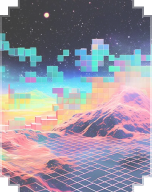
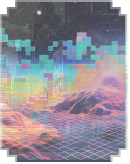
Fixes tracks and minor issues
Make width equal for all sections
Make tracks responsive
Remove faq cloud bg as it

diff --git a/src/components/Schedule/Schedule.jsx b/src/components/Schedule/Schedule.jsx
@@ -74,130 +74,132 @@ function Schedule() {
             <div
                 id="schedule"
                 name="schedule"
-                className="max-w-[1280px] xl:min-w-[1280px] mx-auto py-10 bg-[#040842] font-vt323 bg-[url('/src/assets/images/discord/stars.svg')]"
+                className="w-screen py-10 bg-[#040842] font-vt323 bg-[url('/src/assets/images/discord/stars.svg')]"
             >
-                <h1 className='mx-5 yxl:mx-0 py-6 text-left text-2xl md:text-4xl xl:text-5xl text-[#9E9E9E]'>$ cat <span className='text-white'>SCHEDULE</span>.txt</h1>
-                <div className="timeline mx-30 flex justify-center">
-                    <button className="prev mr-10 opacity-50 hover:opacity-100 min-w-[30px]">
-                        <img src={left_key} alt="" />
-                    </button>
+                <div className='max-w-[1280px] md:mx-8 lg:mx-12 xl:mx-auto'>
+                    <h1 className='mx-5 xl:mx-0 py-6 text-left text-2xl md:text-4xl xl:text-5xl text-[#9E9E9E]'>$ cat <span className='text-white'>SCHEDULE</span>.txt</h1>
+                    <div className="mx-5 xl:mx-0 timeline mx-30 flex justify-center">
+                        <button className="prev mr-10 opacity-50 hover:opacity-100 min-w-[30px]">
+                            <img src={left_key} alt="" />
+                        </button>
 
-                    <div className="contents mx-30 flex mx-auto">
-                        <div
-                            className="timeline-wrapper max-w-[990px] flex overflow-x-auto no-scrollbar" ref={timelineWrapperRef}
-                        >
+                        <div className="contents mx-30 px-10 flex mx-auto">
                             <div
-                                className="flex flex-col justify-center items-center min-w-[330px] m-1"
+                                className="timeline-wrapper max-w-[990px] flex overflow-x-auto no-scrollbar" ref={timelineWrapperRef}
                             >
-                                <h1 className="text-[#FF6D75] text-3xl md:text-4xl xl:text-4xl">
-                                    May 5
-                                </h1>
-                                <h3 className="text-[#00FFDF] text-1xl md:text-2xl xl:text-2xl">
-                                    12:00 AM
-                                </h3>
-                                <img src={bounty} alt="" />
-                                <h3 className="text-[#FFFFFF] text-2xl md:text-3xl xl:text-3xl">
-                                    Registration
-                                </h3>
-                                <h3 className="text-[#FFFFFF] text-2xl md:text-3xl xl:text-3xl">
-                                    Begins
-                                </h3>
-                            </div>
+                                <div
+                                    className="flex flex-col justify-center items-center min-w-[330px] m-1"
+                                >
+                                    <h1 className="text-[#FF6D75] text-3xl md:text-4xl xl:text-4xl">
+                                        May 5
+                                    </h1>
+                                    <h3 className="text-[#00FFDF] text-1xl md:text-2xl xl:text-2xl">
+                                        12:00 AM
+                                    </h3>
+                                    <img src={bounty} alt="" />
+                                    <h3 className="text-[#FFFFFF] text-2xl md:text-3xl xl:text-3xl">
+                                        Registration
+                                    </h3>
+                                    <h3 className="text-[#FFFFFF] text-2xl md:text-3xl xl:text-3xl">
+                                        Begins
+                                    </h3>
+                                </div>
 
-                            <div
-                                className="flex flex-col justify-center items-center min-w-[330px] m-1"
-                            >
-                                <h1 className="text-[#FFC977] text-3xl md:text-4xl xl:text-4xl">
-                                    Aug 17
-                                </h1>
-                                <h3 className="text-[#00FFDF] text-1xl md:text-2xl xl:text-2xl">
-                                    12:00 AM
-                                </h3>
-                                <img src={bounty} alt="" />
-                                <h3 className="text-[#FFFFFF] text-2xl md:text-3xl xl:text-3xl">
-                                    Registration
-                                </h3>
-                                <h3 className="text-[#FFFFFF] text-2xl md:text-3xl xl:text-3xl">
-                                    Closes
-                                </h3>
-                            </div>
+                                <div
+                                    className="flex flex-col justify-center items-center min-w-[330px] m-1"
+                                >
+                                    <h1 className="text-[#FFC977] text-3xl md:text-4xl xl:text-4xl">
+                                        Aug 17
+                                    </h1>
+                                    <h3 className="text-[#00FFDF] text-1xl md:text-2xl xl:text-2xl">
+                                        12:00 AM
+                                    </h3>
+                                    <img src={bounty} alt="" />
+                                    <h3 className="text-[#FFFFFF] text-2xl md:text-3xl xl:text-3xl">
+                                        Registration
+                                    </h3>
+                                    <h3 className="text-[#FFFFFF] text-2xl md:text-3xl xl:text-3xl">
+                                        Closes
+                                    </h3>
+                                </div>
 
-                            <div
-                                className="flex flex-col justify-center items-center min-w-[330px] m-1"
-                            >
-                                <h1 className="text-[#DA77D6] text-3xl md:text-4xl xl:text-4xl">
-                                    Aug 24
-                                </h1>
-                                <h3 className="text-[#00FFDF] text-1xl md:text-2xl xl:text-2xl">
-                                    11:00 AM
-                                </h3>
-                                <img src={bounty} alt="" />
-                                <h3 className="text-[#FFFFFF] text-2xl md:text-3xl xl:text-3xl">
-                                    Hacking
-                                </h3>
-                                <h3 className="text-[#FFFFFF] text-2xl md:text-3xl xl:text-3xl">
-                                    Starts
-                                </h3>
-                            </div>
+                                <div
+                                    className="flex flex-col justify-center items-center min-w-[330px] m-1"
+                                >
+                                    <h1 className="text-[#DA77D6] text-3xl md:text-4xl xl:text-4xl">
+                                        Aug 24
+                                    </h1>
+                                    <h3 className="text-[#00FFDF] text-1xl md:text-2xl xl:text-2xl">
+                                        11:00 AM
+                                    </h3>
+                                    <img src={bounty} alt="" />
+                                    <h3 className="text-[#FFFFFF] text-2xl md:text-3xl xl:text-3xl">
+                                        Hacking
+                                    </h3>
+                                    <h3 className="text-[#FFFFFF] text-2xl md:text-3xl xl:text-3xl">
+                                        Starts
+                                    </h3>
+                                </div>
 
-                            <div
-                                className="flex flex-col justify-center items-center min-w-[330px] m-1"
-                            >
-                                <h1 className="text-[#FF6D75] text-3xl md:text-4xl xl:text-4xl">
-                                    Aug 24
-                                </h1>
-                                <h3 className="text-[#00FFDF] text-1xl md:text-2xl xl:text-2xl">
-                                    11:00 PM
-                                </h3>
-                                <img src={bounty} alt="" />
-                                <h3 className="text-[#FFFFFF] text-2xl md:text-3xl xl:text-3xl">
-                                    Mid
-                                </h3>
-                                <h3 className="text-[#FFFFFF] text-2xl md:text-3xl xl:text-3xl">
-                                    Evaluation
-                                </h3>
-                            </div>
+                                <div
+                                    className="flex flex-col justify-center items-center min-w-[330px] m-1"
+                                >
+                                    <h1 className="text-[#FF6D75] text-3xl md:text-4xl xl:text-4xl">
+                                        Aug 24
+                                    </h1>
+                                    <h3 className="text-[#00FFDF] text-1xl md:text-2xl xl:text-2xl">
+                                        11:00 PM
+                                    </h3>
+                                    <img src={bounty} alt="" />
+                                    <h3 className="text-[#FFFFFF] text-2xl md:text-3xl xl:text-3xl">
+                                        Mid
+                                    </h3>
+                                    <h3 className="text-[#FFFFFF] text-2xl md:text-3xl xl:text-3xl">
+                                        Evaluation
+                                    </h3>
+                                </div>
 
-                            <div
-                                className="flex flex-col justify-center items-center min-w-[330px] m-1"
-                            >
-                                <h1 className="text-[#FFC977] text-3xl md:text-4xl xl:text-4xl">
-                                    Aug 25
-                                </h1>
-                                <h3 className="text-[#00FFDF] text-1xl md:text-2xl xl:text-2xl">
-                                    04:00 PM
-                                </h3>
-                                <img src={bounty} alt="" />
-                                <h3 className="text-[#FFFFFF] text-2xl md:text-3xl xl:text-3xl">
-                                    Final
-                                </h3>
-                                <h3 className="text-[#FFFFFF] text-2xl md:text-3xl xl:text-3xl">
-                                    Evaluation
-                                </h3>
-                            </div>
+                                <div
+                                    className="flex flex-col justify-center items-center min-w-[330px] m-1"
+                                >
+                                    <h1 className="text-[#FFC977] text-3xl md:text-4xl xl:text-4xl">
+                                        Aug 25
+                                    </h1>
+                                    <h3 className="text-[#00FFDF] text-1xl md:text-2xl xl:text-2xl">
+                                        04:00 PM
+                                    </h3>
+                                    <img src={bounty} alt="" />
+                                    <h3 className="text-[#FFFFFF] text-2xl md:text-3xl xl:text-3xl">
+                                        Final
+                                    </h3>
+                                    <h3 className="text-[#FFFFFF] text-2xl md:text-3xl xl:text-3xl">
+                                        Evaluation
+                                    </h3>
+                                </div>
 
-                            <div
-                                className="flex flex-col justify-center items-center min-w-[330px] m-1"
-                            >
-                                <h1 className="text-[#DA77D6] text-3xl md:text-4xl xl:text-4xl">
-                                    Aug 25
-                                </h1>
-                                <h3 className="text-[#00FFDF] text-1xl md:text-2xl xl:text-2xl">
-                                    05:15 PM
-                                </h3>
-                                <img src={bounty} alt="" />
-                                <h3 className="text-[#FFFFFF] text-2xl md:text-3xl xl:text-3xl">
-                                    Closing
-                                </h3>
-                                <h3 className="text-[#FFFFFF] text-2xl md:text-3xl xl:text-3xl">
-                                    Ceremony
-                                </h3>
+                                <div
+                                    className="flex flex-col justify-center items-center min-w-[330px] m-1"
+                                >
+                                    <h1 className="text-[#DA77D6] text-3xl md:text-4xl xl:text-4xl">
+                                        Aug 25
+                                    </h1>
+                                    <h3 className="text-[#00FFDF] text-1xl md:text-2xl xl:text-2xl">
+                                        05:15 PM
+                                    </h3>
+                                    <img src={bounty} alt="" />
+                                    <h3 className="text-[#FFFFFF] text-2xl md:text-3xl xl:text-3xl">
+                                        Closing
+                                    </h3>
+                                    <h3 className="text-[#FFFFFF] text-2xl md:text-3xl xl:text-3xl">
+                                        Ceremony
+                                    </h3>
+                                </div>
                             </div>
                         </div>
+                        <button className="next ml-10 opacity-50 hover:opacity-100 min-w-[30px]">
+                            <img src={right_key} alt="" />
+                        </button>
                     </div>
-                    <button className="next ml-10 opacity-50 hover:opacity-100 min-w-[30px]">
-                        <img src={right_key} alt="" />
-                    </button>
                 </div>
             </div>
         </>

diff --git a/src/components/Tracks/Tracks.jsx b/src/components/Tracks/Tracks.jsx
@@ -6,17 +6,25 @@ import medical from '../../assets/images/tracks/medical.png';
 import medical_card from '../../assets/images/tracks/medical_card.png';
 import wildlife from '../../assets/images/tracks/wildlife.png';
 import wildlife_card from '../../assets/images/tracks/wildlife_card.png';
+import hardware_card from '../../assets/images/tracks/hardware_card.png';
+import hardware from '../../assets/images/tracks/hardware.png';
+import open_innovation_card from '../../assets/images/tracks/open_innovation_card.png';
+import open_innovation from '../../assets/images/tracks/open_innovation.png';
+import education_card from '../../assets/images/tracks/hardware_card.png';
+import education from '../../assets/images/tracks/hardware.png';
+import web3_card from '../../assets/images/tracks/web3_card.png';
+import web3 from '../../assets/images/tracks/web3.png';
 
 const Tracks = () => {
     const [selectedTrack, setSelectedTrack] = useState(1);
 
     const trackData = [
         { id: 1, title: 'MEDICAL', description: 'In this track, participants work on developing software solutions related to healthcare and medicine. They might build applications that help patients manage their health, or tools that assist healthcare providers in diagnosing and treating patients.', image: medical, card: medical_card },
-        { id: 2, title: 'WILDLIFE', description: 'This track focuses on building software solutions that promote sustainability and protect the environment. Participants might create applications that help reduce waste, conserve energy, prevent illegal wildlife trade, or even provide early warning systems for natural calamities that can impact wildlife and their habitats. ', image: wildlife, card: wildlife_card},
-        { id: 3, title: 'Track 3', description: 'Description for Track 3' },
-        { id: 4, title: 'Track 4', description: 'Description for Track 4' },
-        { id: 5, title: 'Track 4', description: 'Description for Track 4' },
-        { id: 6, title: 'Track 4', description: 'Descrip`tion for Track 4' },
+        { id: 2, title: 'HARDWARE', description: 'The Hardware track emphasizes hands-on implementation and encourages teams to create detailed and innovative prototypes that showcase the functionality and feasibility of their ideas. Participants are encouraged to explore diverse challenges and develop hardware-based solutions that address these issues effectively. ', image: hardware, card: hardware_card},
+        { id: 3, title: 'WILDLIFE', description: 'This track focuses on building software solutions that promote sustainability and protect the environment. Participants might create applications that help reduce waste, conserve energy, prevent illegal wildlife trade, or even provide early warning systems for natural calamities that can impact wildlife and their habitats. ', image: wildlife, card: wildlife_card},
+        { id: 4, title: 'EDUCATION', description: 'The education track encourages participants to build software solutions that enhance the quality of education. Participants might develop applications that provide personalized learning experiences, improve access to education for disadvantaged communities, or help teachers and students collaborate more effectively. ', image: education, card: education_card},
+        { id: 5, title: 'WEB3', description: 'As part of this track, participants may explore decentralized finance (DeFi) applications, enabling seamless peer-to-peer financial transactions, decentralized marketplaces, and novel governance models. One can design secure and transparent systems that empower users with greater control over their digital assets. ', image: web3, card: web3_card},
+        { id: 6, title: 'OPEN INNOVATION', description: 'The Open Innovation track offers limitless scope for creativity, encouraging participants to explore diverse ideas and solve real-world problems outside conventional boundaries. Let your imagination run wild and propose exciting solutions that can reform the world. ', image: open_innovation, card: open_innovation_card},
         // Add more tracks here...
     ];
 
@@ -25,8 +33,8 @@ const Tracks = () => {
     };
 
     return (
-        <section className='relative mb-10 mx-5'>
-            <img src={stars} className=" z-0 absolute pointer-events-none w-screen opacity-50"></img>
+        <section className="relative mb-10 px-5 bg-[url('/src/assets/images/discord/stars.svg')] bg-opacity-50">
+            {/* <img src={stars} className=" z-0 absolute pointer-events-none w-screen opacity-50"></img> */}
             <img src={trackData[selectedTrack - 1].image} alt="" className='z-1 absolute pointer-events-none left-0 right-0 mx-auto max-w-full xl:-translate-y-48 opacity-50'/>
             <div className='text-white max-w-[1280px] md:mx-8 lg:mx-12 xl:mx-auto z-2'>
                 <h1 className='py-6 md:text-left text-2xl md:text-4xl xl:text-5xl text-[#9E9E9E]'>$ ls -a <span className='text-white'>TRACKS</span></h1>
@@ -45,9 +53,9 @@ const Tracks = () => {
                         <img src={left_key} alt="" className='opacity-50 hover:opacity-100'onClick={() => {document.querySelector('.tracks-wrapper').scrollLeft -= 158}}/>
                         <div className='tracks-wrapper flex gap-5 max-w-[480px] overflow-x-auto scroll-smooth no-scrollbar'>
                             {trackData.map((track) => (
-                                <div key={track.id} className="card min-w-36 relative" onClick={() => handleCardClick(track.id)}>
-                                    <img src={medical_card} alt="" className='object-cover opacity-70'/>
-                                    <h4 className='absolute text-3xl left-0 top-0 right-0 bottom-0 m-auto w h-fit text-center'>{track.title}</h4>
+                                <div key={track.id} className="card min-w-24 sm:min-w-36 grid place-items-center relative" onClick={() => handleCardClick(track.id)}>
+                                    <img src={track.card} alt="" className='opacity-70'/>
+                                    <h4 className='absolute text-xl md:text-2xl xl:text-3xl left-0 top-0 right-0 bottom-0 m-auto w h-fit text-center'>{track.title}</h4>
                                 </div>
                             ))}
                         </div>

diff --git a/src/components/Sponsors/Sponsors.jsx b/src/components/Sponsors/Sponsors.jsx
@@ -1,5 +1,6 @@
 import React from 'react'
 import { Link } from 'react-router-dom';
+import stars from '../../assets/images/footer/stars.svg';
 // import mlhLogo from '../../assets/images/sponsors/mlh.png';
 // import postmanLogo from '../../assets/images/sponsors/postman.png';
 // import awsLogo from '../../assets/images/sponsors/aws.png';
@@ -20,7 +21,7 @@ const Sponsors = () => {
         <section className="relative bg-[url('/src/assets/images/discord/stars.svg')]" id='sponsors'>
 
             <div className="max-w-[1280px] md:mx-8 lg:mx-12 xl:mx-auto">
-                <h1 className='py-6 md:text-left text-2xl md:text-4xl xl:text-5xl text-[#9E9E9E]'>$ tar -xvz <span className='text-white'>SPONSORS</span>.tar.gz</h1>
+                <h1 className='mx-5 xl:mx-0 py-6 md:text-left text-2xl md:text-4xl xl:text-5xl text-[#9E9E9E]'>$ tar -xvfz <span className='text-white'>SPONSORS</span>.tar.gz</h1>
 
                 <div className='mb-4 flex flex-col gap-1 sm:gap-1'>
                     {/* <h1 className="font-vt323 font-medium text-[12vw] leading-[12vw] sm:leading-[4rem] md:leading-[5rem] md:text-[9vw] lg:text-[7vw] xl:text-[6vw] xl:leading-[6rem] 3xl:leading-[8rem]" style={{ background: 'linear-gradient(to right, blue,blue,#dd50b3,#dd50b3)', WebkitBackgroundClip: 'text', WebkitTextFillColor: 'transparent' }}>SPONSORS</h1> */}
@@ -74,6 +75,7 @@ const Sponsors = () => {
 
 
             </div>
+            <img src={stars} alt="stars" className="absolute w-screen h-screen top-[100%] object-cover opacity-70" />
         </section>
     )
 }

diff --git a/src/components/Faq/Faq.jsx b/src/components/Faq/Faq.jsx
@@ -1,5 +1,6 @@
 import React, { useState } from 'react';
 import stars from '../../assets/images/footer/stars.svg';
+import clouds from '../../assets/images/faq/faqbg.svg';
 
 const faqData = [
   {
@@ -55,9 +56,8 @@ const Faq = () => {
 
   return (
     <>
-      <div className="relative w-full min-h-screen bg-[url('/src/assets/images/faq/faqbg.svg')] bg-cover bg-no-repeat flex items-start justify-center ">
-        <img src={stars} alt="stars" className="absolute w-full h-full object-cover" />
-        <div className="relative z-10 text-left mx-4 md:mx-8 lg:mx-12 xl:mx-20 w-full max-w-4xl">
+      <div className="relative w-screen flex items-start justify-center">
+        <div className="relative z-10 text-left mx-4 md:mx-8 lg:mx-12 xl:mx-20 w-full max-w-[1280px]">
           <h1 className="text-[#9E9E9E] text-3xl md:text-4xl xl:text-5xl m-0">
             $ ./<span id="heading-rules" className="text-white">FAQ</span>
           </h1>

diff --git a/src/components/Footer/Footer.jsx b/src/components/Footer/Footer.jsx
@@ -11,7 +11,7 @@ import footer from '../../assets/images/footer/footer.svg'
 function Footer() {
     return (
         <>
-        <div id="footer" className='main-footer'>
+        <div id="footer" className='main-footer text-center'>
                 <div className="container mx-auto px-4 py-8">
                     <p className="footercontent text-xl md:text-2xl  text-[#BEBEBE] text-center inline">Join our Discord Community to stay updated on all the latest developments and <br className="hidden lg:inline" />announcements for our hackathon! Don&apos;t miss out on key updates and opportunities, join us today!</p>
                 </div>

diff --git a/src/pages/LandingPage.jsx b/src/pages/LandingPage.jsx
@@ -100,7 +100,7 @@ function LandingPage() {
         </section>
 
         {/* Timer section  */}
-        <section id="timer" className="mt-[4%] mb-10">
+        <section id="timer" className="mt-[4%]">
           <TimerSection />
         </section>
 
